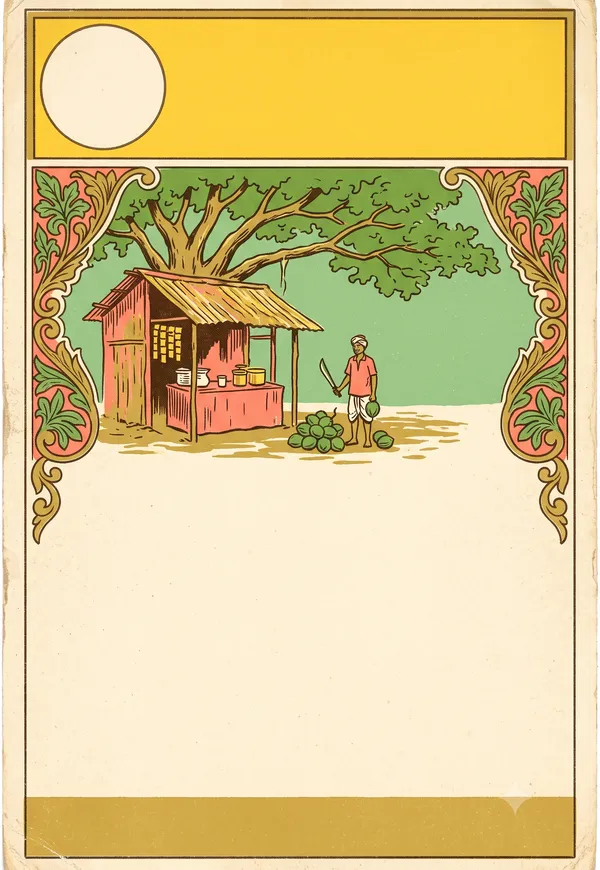
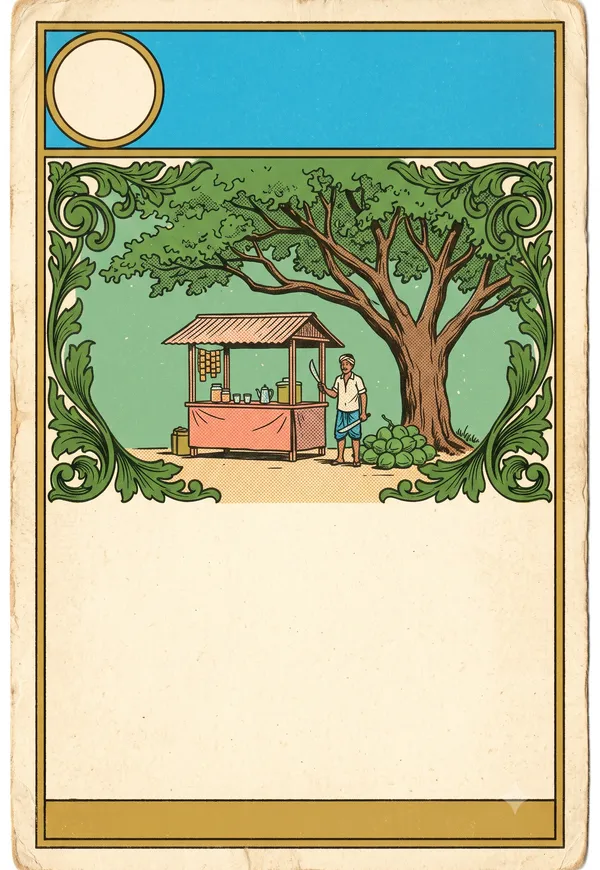
feat(mobile): palette v2 recolours — kashi_0, bangalore, newDelhi
All 7 recolours landed with the correct locked banner, so their
BANNER_HEX_OVERRIDES pins were removed (they now follow the set colour):
- kashi_0            -> kesari saffron  (title ink: dark) — the earlier washed-out
                        /deep-hero drop is fixed: crisp now, hero ~52%
- bangalore_0/1/2    -> azure sky blue   (title ink: dark; distinct from Mumbai navy)
- newDelhi_0/1/2     -> vivid leaf green (title ink: cream + keyline; distinct from
                        Utilities sage)

Each passed the property checklist: banner = locked set colour, cream circle
inside the band, no baked text, hero <=~55%, clear cream lower half, gold band.

This resolves ALL palette-lock stragglers — BANNER_HEX_OVERRIDES now holds only
the three gold-band early editions (mumbai_0, jaipur_0, jaipur_1). titleInk test
updated: dropped the empty stragglers case, consolidated the recolour-follows-
set-colour check to cover every v2 recolour.

diff --git a/apps/mobile/src/design/titleInk.test.ts b/apps/mobile/src/design/titleInk.test.ts
@@ -27,23 +27,19 @@ describe('titleInkForPlate', () => {
 
   it('keeps dark ink on the early gold-band plates (override)', () => {
     expect(titleInkForPlate('prop_mumbai_0', 'mumbai').name).toBe(INK.deepInk);
-    expect(titleInkForPlate('prop_kashi_0', 'kashi').name).toBe(INK.deepInk);
     expect(titleInkForPlate('prop_jaipur_0', 'jaipur').name).toBe(INK.deepInk);
     expect(titleInkForPlate('prop_jaipur_1', 'jaipur').name).toBe(INK.deepInk);
   });
 
-  it('pins the actual banner for palette-lock stragglers (override)', () => {
-    expect(titleInkForPlate('prop_bangalore_0', 'bangalore').name).toBe(INK.deepInk); // still-amber banner
-    expect(titleInkForPlate('prop_newDelhi_0', 'newDelhi').name).toBe(INK.deepInk); // still-yellow banner
-  });
-
-  it('recoloured kashi/kolkata/chennai plates follow the set colour now (overrides removed)', () => {
-    expect(titleInkForPlate('prop_kashi_1', 'kashi').name).toBe(INK.deepInk); // kesari saffron -> dark
+  it('recoloured plates follow the set colour now their overrides are removed', () => {
+    expect(titleInkForPlate('prop_kashi_0', 'kashi').name).toBe(INK.deepInk); // kesari saffron -> dark
     expect(titleInkForPlate('prop_kashi_2', 'kashi').name).toBe(INK.deepInk);
     expect(titleInkForPlate('prop_kolkata_0', 'kolkata').name).toBe(INK.cardCream); // royal violet -> cream
-    expect(titleInkForPlate('prop_kolkata_2', 'kolkata').name).toBe(INK.cardCream);
     expect(titleInkForPlate('prop_chennai_0', 'chennai').name).toBe(INK.deepInk); // chrome yellow -> dark
-    expect(titleInkForPlate('prop_chennai_2', 'chennai').name).toBe(INK.deepInk);
+    expect(titleInkForPlate('prop_bangalore_0', 'bangalore').name).toBe(INK.deepInk); // azure -> dark
+    expect(titleInkForPlate('prop_bangalore_2', 'bangalore').name).toBe(INK.deepInk);
+    expect(titleInkForPlate('prop_newDelhi_0', 'newDelhi').name).toBe(INK.cardCream); // leaf green -> cream
+    expect(titleInkForPlate('prop_newDelhi_2', 'newDelhi').name).toBe(INK.cardCream);
   });
 
   it('adds a keyline only when the ink is cream', () => {

diff --git a/apps/mobile/src/design/titleInk.ts b/apps/mobile/src/design/titleInk.ts
@@ -27,20 +27,10 @@ const BANNER_HEX_OVERRIDES: Record<string, string> = {
   // Early "gold band" plates: painted with a gold title band (a thin set-colour
   // strip on top) before the banner=set-colour convention settled. Dark ink reads
   // on gold. Owner is deciding whether to regenerate these for palette consistency.
+  // (All palette-lock stragglers have now landed as v2 recolours and been removed.)
   prop_mumbai_0: INK.gold,
-  prop_kashi_0: INK.gold, // saffron recolour dropped was non-compliant (washed-out, deep hero); pending
   prop_jaipur_0: INK.gold,
   prop_jaipur_1: INK.gold,
-
-  // TEMPORARY palette-lock stragglers — the set colour changed, so we pin the ACTUAL
-  // painted banner until the regen lands. Remove each entry when its regenerated plate
-  // (with the locked banner) arrives. kashi_1/2, kolkata_0/1/2 and chennai_0/1/2 landed
-  // (palette v2 recolours) and were removed here.
-  prop_bangalore_0: '#E3A81C', // painted amber; bangalore is now azure blue
-  prop_bangalore_1: '#E3A81C',
-  prop_bangalore_2: '#E3A81C',
-  prop_newDelhi_0: '#E6A90E', // painted yellow; newDelhi is leaf green
-  prop_newDelhi_1: '#E6A90E',
 };
 
 export interface TitleInk {
